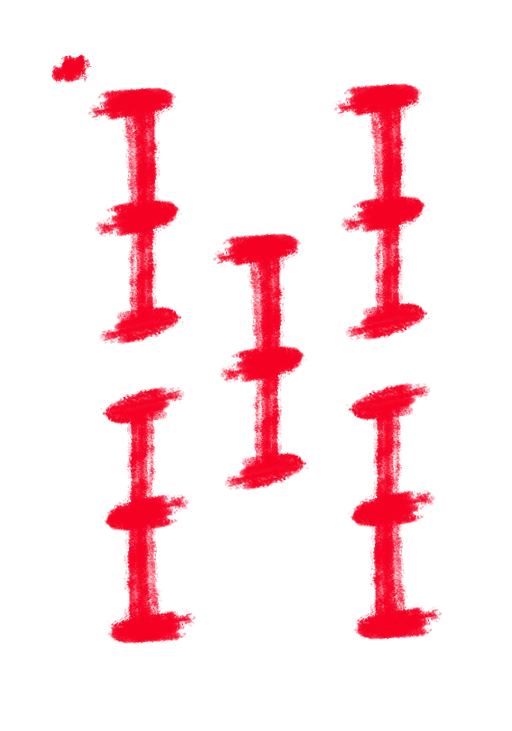
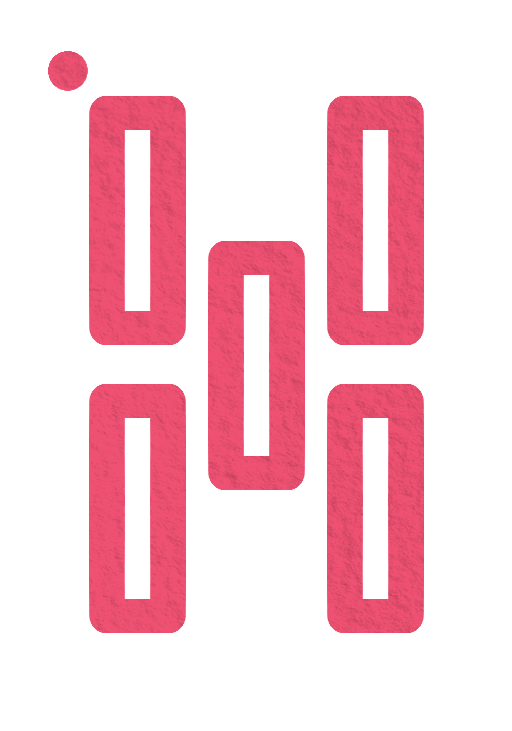
feat: new tile design

diff --git a/client/src/pages/game/components/center-panel.tsx b/client/src/pages/game/components/center-panel.tsx
@@ -11,7 +11,7 @@ interface CenterPanelProps {
 const CenterPanel: FC<CenterPanelProps> = ({ state, me }) => {
   const theme = useTheme()
   const op = me === 'host' ? 'guest' : 'host'
-  const tilePrefix = theme.palette.mode === 'dark' ? '/center/center_tile_' : '/tiles/'
+  const tileSuffix = theme.palette.mode === 'dark' ? 'd' : ''
 
   return (
     <Paper
@@ -121,7 +121,7 @@ const CenterPanel: FC<CenterPanelProps> = ({ state, me }) => {
             backgroundSize: 'cover',
             backgroundPosition: 'center',
             backgroundRepeat: 'no-repeat',
-            backgroundImage: `url(${tilePrefix}${getWindCode(state[op].wind)}.png)`,
+            backgroundImage: `url(/tiles/${getWindCode(state[op].wind)}${tileSuffix}.png)`,
             transform: 'rotate(180deg)',
           }}
         />
@@ -171,7 +171,7 @@ const CenterPanel: FC<CenterPanelProps> = ({ state, me }) => {
             backgroundSize: 'cover',
             backgroundPosition: 'center',
             backgroundRepeat: 'no-repeat',
-            backgroundImage: `url(${tilePrefix}${getWindCode(state[me].wind)}.png)`,
+            backgroundImage: `url(/tiles/${getWindCode(state[me].wind)}${tileSuffix}.png)`,
           }}
         />
 
